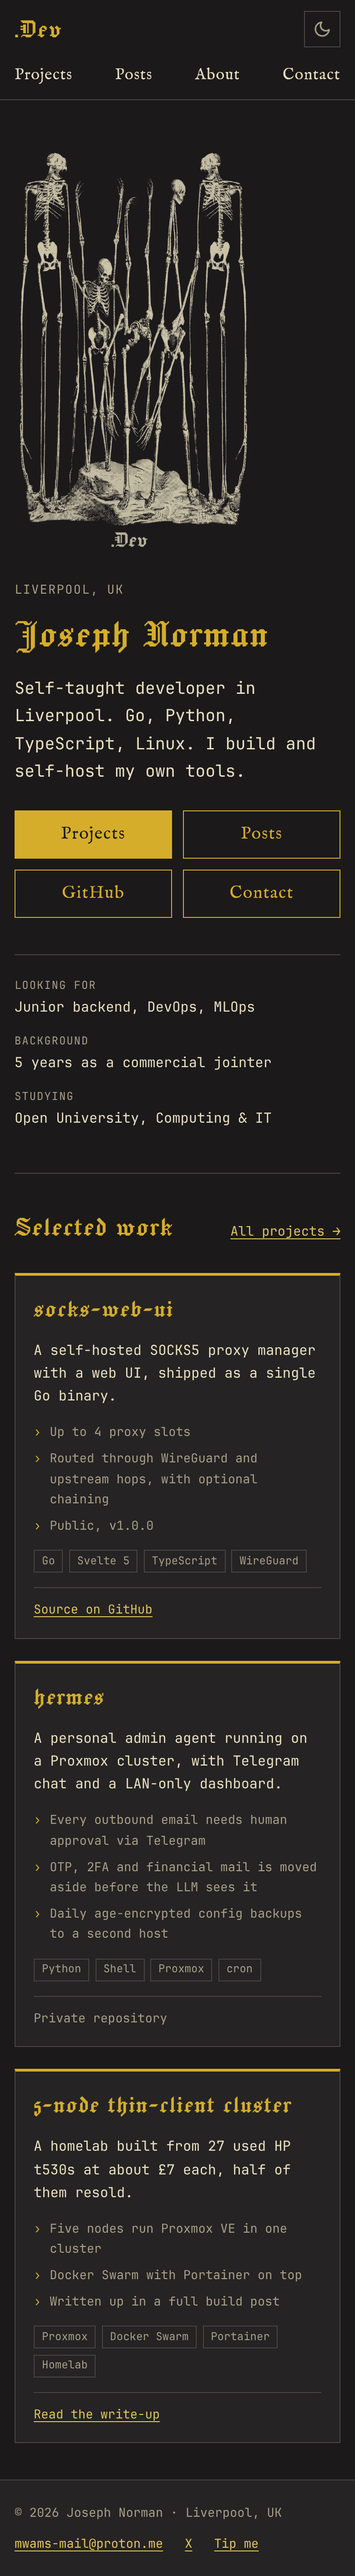
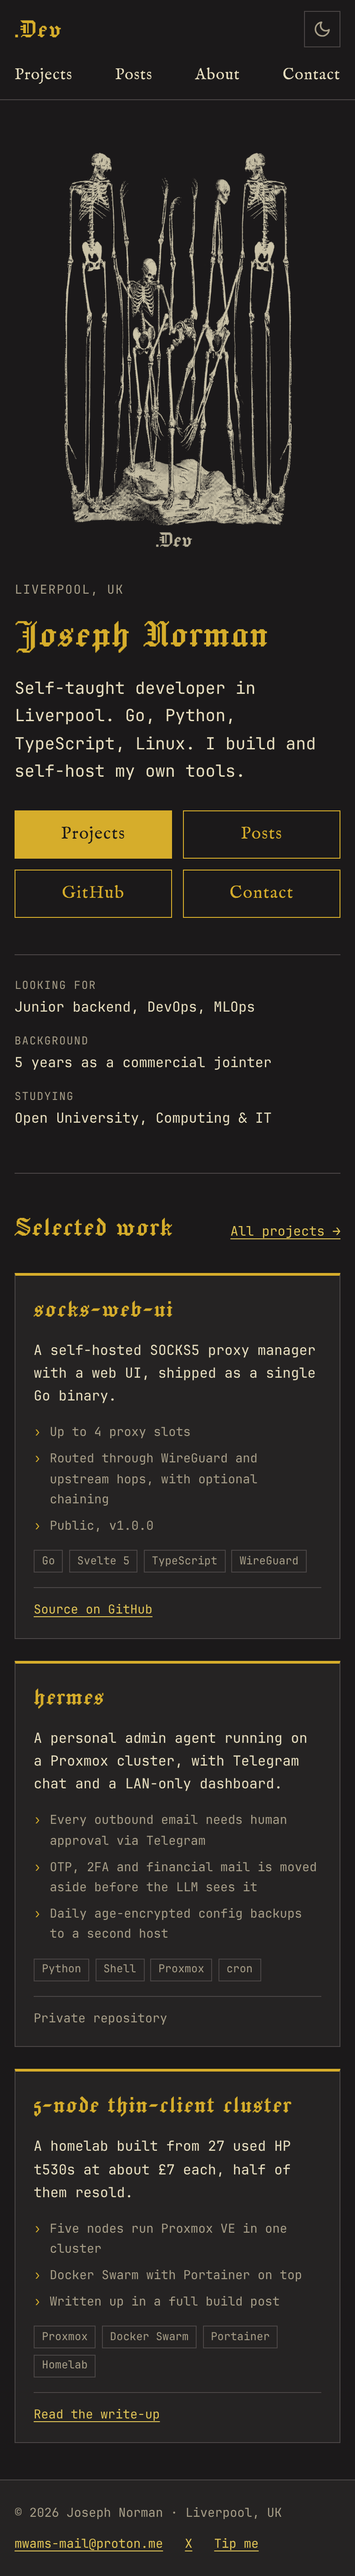
Centre hero artwork on mobile
Claude-Session: https://claude.ai/code/session_01SjAzHDYb82ajh4YYuD6SQw

Changed region(s): [[0.0615, 0.0622, 0.8308, 0.2177], [0.0308, 0.1244, 0.0615, 0.1555]]

diff --git a/mocks/css/style.css b/mocks/css/style.css
@@ -207,7 +207,7 @@ a:hover { color: var(--text); }
 @media (max-width: 960px) {
   .cards { grid-template-columns: 1fr; }
   .hero { grid-template-columns: 1fr; gap: 2rem; padding: 2rem 0 3rem; }
-  .hero__art { max-width: 260px; }
+  .hero__art { max-width: 260px; width: 100%; margin-inline: auto; }
   .posts-layout { grid-template-columns: 1fr; gap: 1.5rem; }
   .topics { position: static; order: -1; }
   .topics ul { display: flex; flex-wrap: wrap; gap: 0.5rem; }
